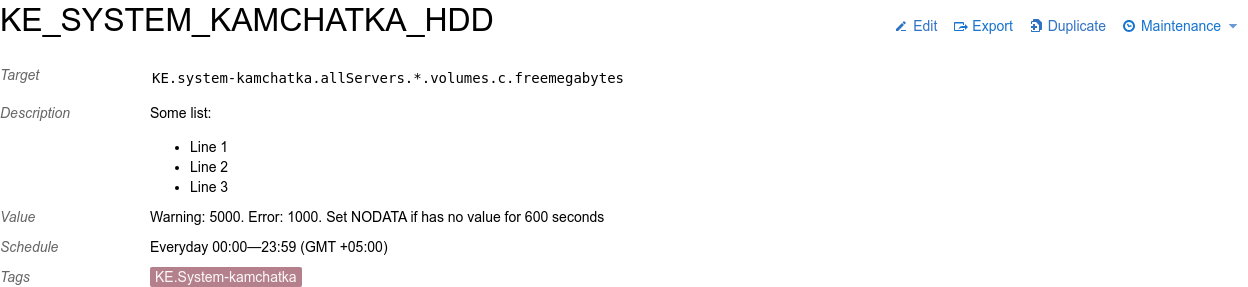
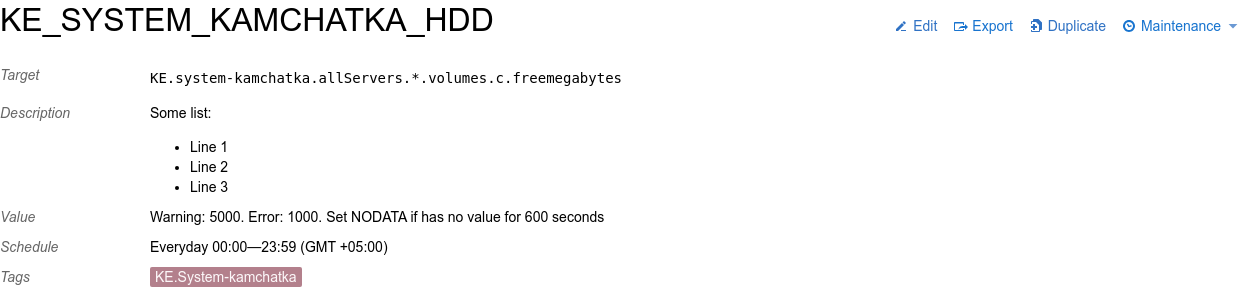
.

Changed region(s): [[0.0938, 0.2509, 0.5, 0.3066]]

diff --git a/src/Components/HighlightInput/CodeEditor.tsx b/src/Components/HighlightInput/CodeEditor.tsx
@@ -104,7 +104,12 @@ export const CodeEditor = React.forwardRef<HTMLDivElement, Props>(function CodeE
         languageToUse,
     ];
 
-    const ShowModeExtensions = [languageToUse, EditorView.editable.of(!disabled), ShowModeTheme];
+    const ShowModeExtensions = [
+        basicSetup,
+        languageToUse,
+        EditorView.editable.of(!disabled),
+        ShowModeTheme,
+    ];
 
     if (!isPromQl) {
         ShowModeExtensions.push(GraphiteHighlightStyle);

diff --git a/src/Components/TriggerInfo/TriggerInfo.less b/src/Components/TriggerInfo/TriggerInfo.less
@@ -48,7 +48,7 @@
             overflow: hidden;
         }
         &.codeEditor {
-            margin-left: -2px;
+            margin-left: -4px;
         }
     }
 }
